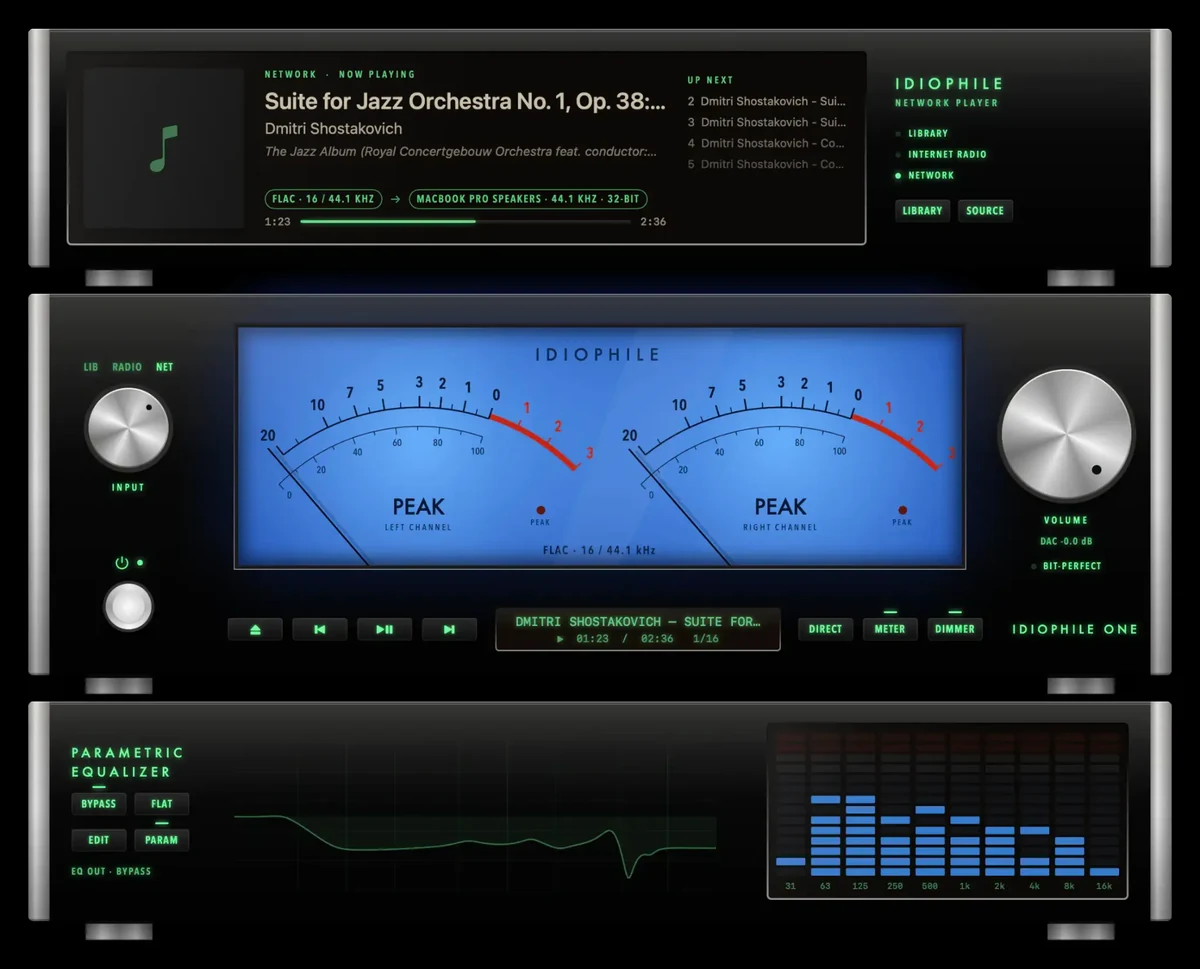
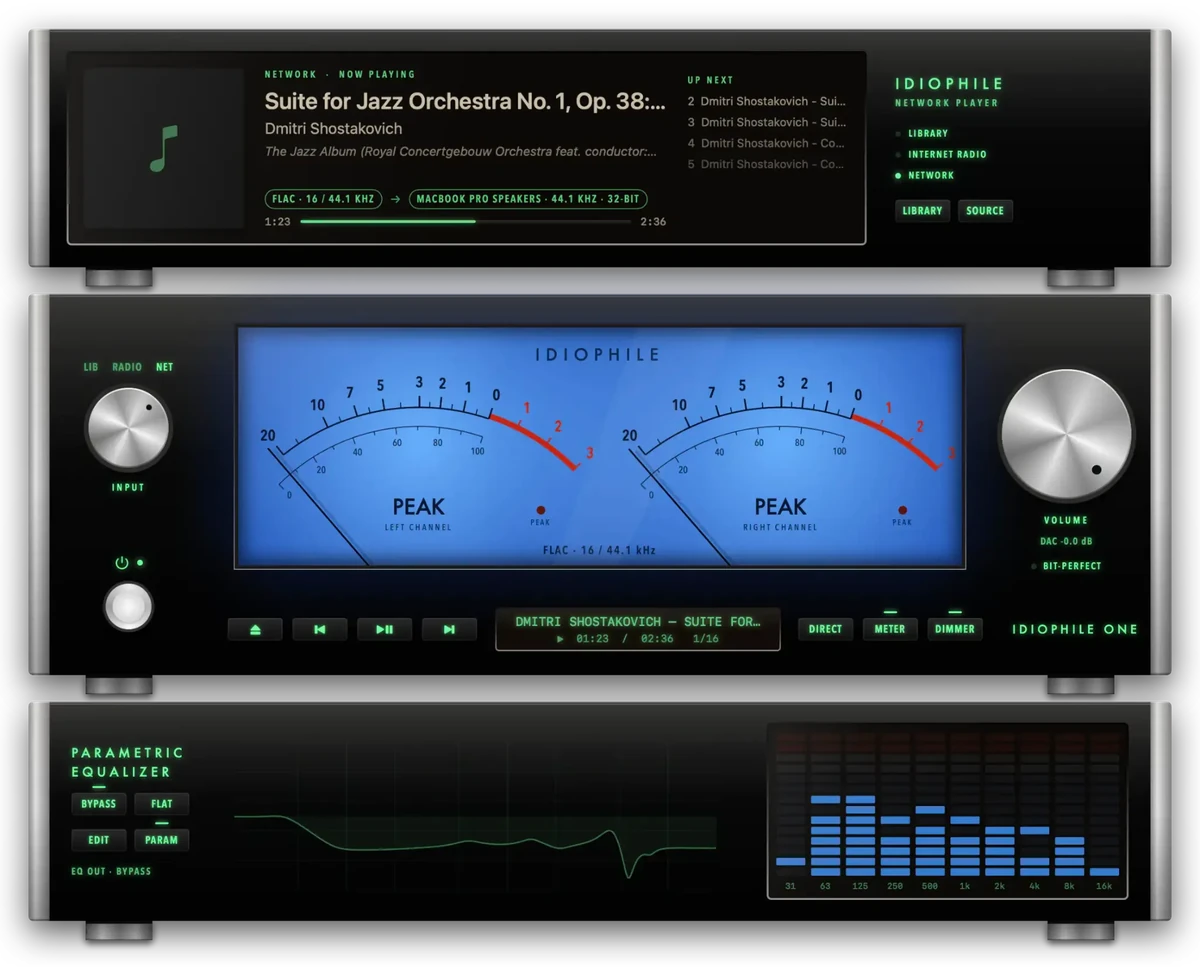
feat(projects): add Idiophile One FR/EN and restore transparent WebP artwork

Changed region(s): [[0.0, 0.0, 1.0, 1.0]]

diff --git a/src/content/projects/idiophile-one.md b/src/content/projects/idiophile-one.md
@@ -1,0 +1,39 @@
+---
+title: "Idiophile One"
+description: "Mon lecteur audio gratuit et open source pour macOS : une façade hi-fi vintage avec vu-mètres, un chemin audio vérifiable, un égaliseur paramétrique et des sources réseau."
+date: 2026-10-18
+lang: fr
+translation: idiophile-one-en
+draft: false
+cover: "/uploads/idiophile-one/idiophile-one-blue-glass.webp"
+applicationCategory: "MultimediaApplication"
+operatingSystem: ["macOS 14+", "Apple Silicon", "Intel"]
+technologies: ["Swift", "SwiftUI", "AVAudioEngine", "Core Audio"]
+repoURL: "https://github.com/dev-digitaldream/idiophile-one"
+---
+
+## Pourquoi je l'ai créé
+
+Je suis retombé sur des annonces d'amplis Technics, Pioneer et Sansui, avec leurs grandes aiguilles lumineuses qui dansaient au rythme de la batterie. Comme je n'ai ni la place ni le temps de collectionner ces belles machines, j'ai voulu retrouver ce plaisir sur mon Mac. Le projet a commencé par une façade virtuelle avec vu-mètres VU et PEAK, puis il a évolué vers un vrai lecteur audio.
+
+Et oui, le nom **Idiophile** taquine gentiment les excès du milieu audiophile : câbles hors de prix, accessoires miraculeux et switches réseau rebaptisés « audiophiles ». L'application, elle, est gratuite, sans abonnement, et publiée en open source sous licence GPL-3.0 ou ultérieure.
+
+![Les trois finitions d'Idiophile One : Champagne, Black et Blue Glass](/uploads/idiophile-one/idiophile-one-finishes.webp)
+
+## Ce qui fonctionne dans l'alpha
+
+- Une façade inspirée des éléments hi-fi vintage, avec deux vu-mètres, un analyseur de spectre et trois finitions : Champagne, Black et Blue Glass.
+- Une bibliothèque locale organisée par albums, artistes, compositeurs, genres et morceaux.
+- Les radios internet et les serveurs DLNA / UPnP du réseau local.
+- Un égaliseur paramétrique jusqu'à 20 filtres, avec profils AutoEq et Equalizer APO, et comparaison A/B à volume égal.
+- Un mode **DIRECT** et un panneau **Audio Path** pour expliquer le trajet du signal. **Verify** compare les échantillons envoyés à Core Audio à ceux du fichier, dans les limites du moteur actuel.
+
+Le voyant **BIT-PERFECT** n'est pas une décoration : il s'allume seulement quand les conditions contrôlées par le lecteur sont réunies. Cela ne garantit pas l'absence de traitement après Core Audio, notamment dans le DAC ou les enceintes. Les haut-parleurs intégrés du Mac ne permettent pas de revendiquer une sortie bit-perfect de bout en bout.
+
+## Ce qu'il faut savoir avant de l'installer
+
+C'est une **alpha 0.1.0-alpha.2**. Il y a encore des bugs, et je ne l'ai testée que sur peu de DAC. Le moteur repose sur AVAudioEngine en flottant 32 bits : les sources de plus de 24 bits sont actuellement arrondies à 24 bits, et le lecteur le signale. Il n'y a pas encore de DSD, de correction de pièce ni de streaming commercial. L'application n'est pas encore notarisée ; les étapes d'autorisation sur macOS sont documentées dans le README.
+
+**Téléchargement :** [versions disponibles sur GitHub](https://github.com/dev-digitaldream/idiophile-one/releases). Pour signaler un bug ou me dire quel DAC vous utilisez, [les issues GitHub sont ouvertes](https://github.com/dev-digitaldream/idiophile-one/issues).
+
+[J'ai raconté la naissance du lecteur, les vu-mètres vintage, les choix techniques et les limites de cette alpha dans le billet complet.](/blog/idiophile-one-lecteur-audiophile-vintage-mac/)

diff --git a/src/content/projects/idiophile-one-en.md b/src/content/projects/idiophile-one-en.md
@@ -1,0 +1,39 @@
+---
+title: "Idiophile One"
+description: "My free, open-source macOS music player: a vintage hi-fi front panel with VU meters, an inspectable audio path, parametric EQ, and network sources."
+date: 2026-10-18
+lang: en
+translation: idiophile-one
+draft: false
+cover: "/uploads/idiophile-one/idiophile-one-blue-glass.webp"
+applicationCategory: "MultimediaApplication"
+operatingSystem: ["macOS 14+", "Apple Silicon", "Intel"]
+technologies: ["Swift", "SwiftUI", "AVAudioEngine", "Core Audio"]
+repoURL: "https://github.com/dev-digitaldream/idiophile-one"
+---
+
+## Why I built it
+
+I came across listings for old Technics, Pioneer, and Sansui amplifiers, the kind with big illuminated needles dancing along with the drums. I don't have the space or time to collect and restore those beautiful machines, so I decided to recreate that feeling on my Mac. It started as a virtual front panel with VU and PEAK meters, and gradually became a full-fledged music player.
+
+And yes, **Idiophile** is a friendly jab at the excesses of the audiophile world: outrageously priced cables, miracle accessories, and ordinary network switches sold as special audiophile equipment. The app itself is free, subscription-free, and open source under GPL-3.0-or-later.
+
+![Idiophile One in its three finishes: Champagne, Black, and Blue Glass](/uploads/idiophile-one/idiophile-one-finishes.webp)
+
+## What works in the alpha
+
+- A vintage-inspired hi-fi front panel, twin meters, spectrum analyzer, and three finishes: Champagne, Black, and Blue Glass.
+- A local library with albums, artists, composers, genres, and tracks.
+- Internet radio and DLNA / UPnP servers on your network.
+- A parametric equalizer with up to 20 filters, AutoEq and Equalizer APO profile imports, and level-matched A/B comparison.
+- **DIRECT** mode and an **Audio Path** panel showing the signal chain. **Verify** compares samples submitted to Core Audio against the source file, within the current engine's limits.
+
+The **BIT-PERFECT** indicator only lights up when the conditions checked by the player are met. It cannot guarantee that no processing happens downstream of Core Audio, including inside a DAC or speakers. The Mac's built-in speakers cannot be treated as an end-to-end bit-perfect output.
+
+## Before installing it
+
+This is **alpha 0.1.0-alpha.2**. Expect bugs. It has been tested with only a small number of DACs. The engine currently uses 32-bit floating-point AVAudioEngine; sources above 24-bit precision are rounded to 24 bits, and the application makes that limitation visible. There is no DSD, room correction, or commercial streaming integration yet. The app is not notarized; the README explains how to authorize it on macOS.
+
+**Download:** [GitHub releases](https://github.com/dev-digitaldream/idiophile-one/releases). If you find a bug or want to tell me which DAC you use, [open an issue on GitHub](https://github.com/dev-digitaldream/idiophile-one/issues).
+
+[Read the full story behind Idiophile One, its vintage meters, technical decisions, and the limits of this alpha.](/blog/idiophile-one-vintage-mac-en/)
